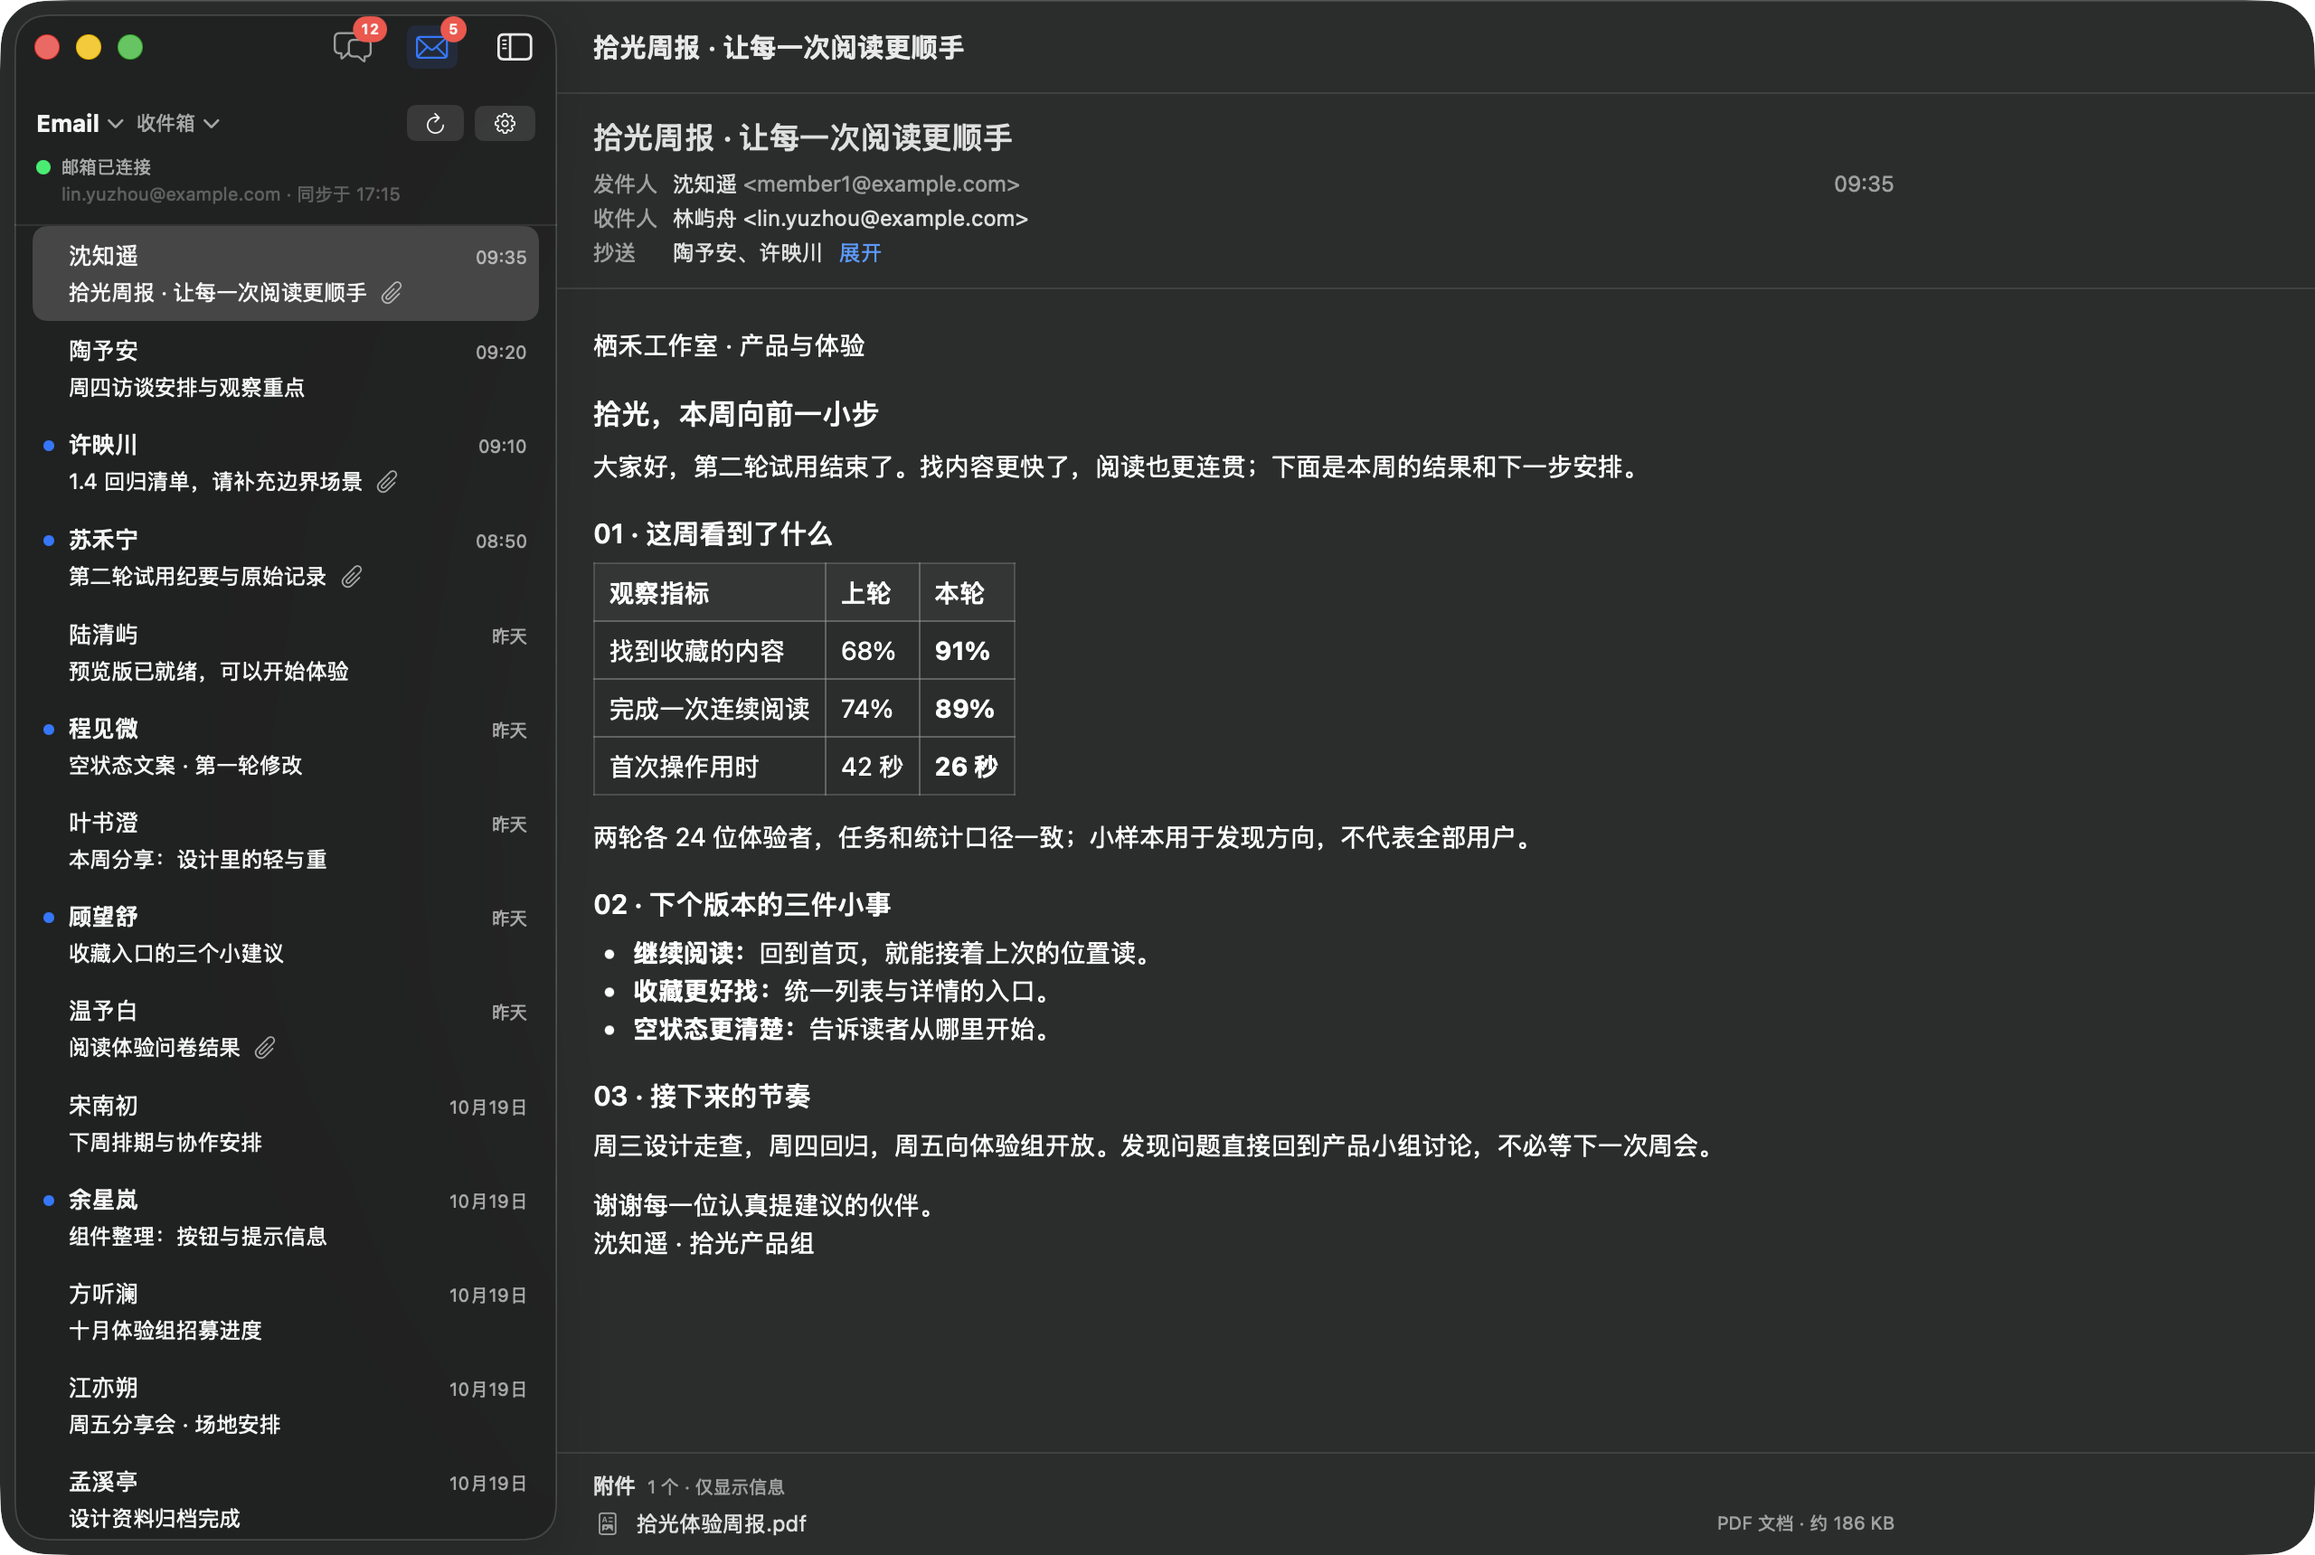
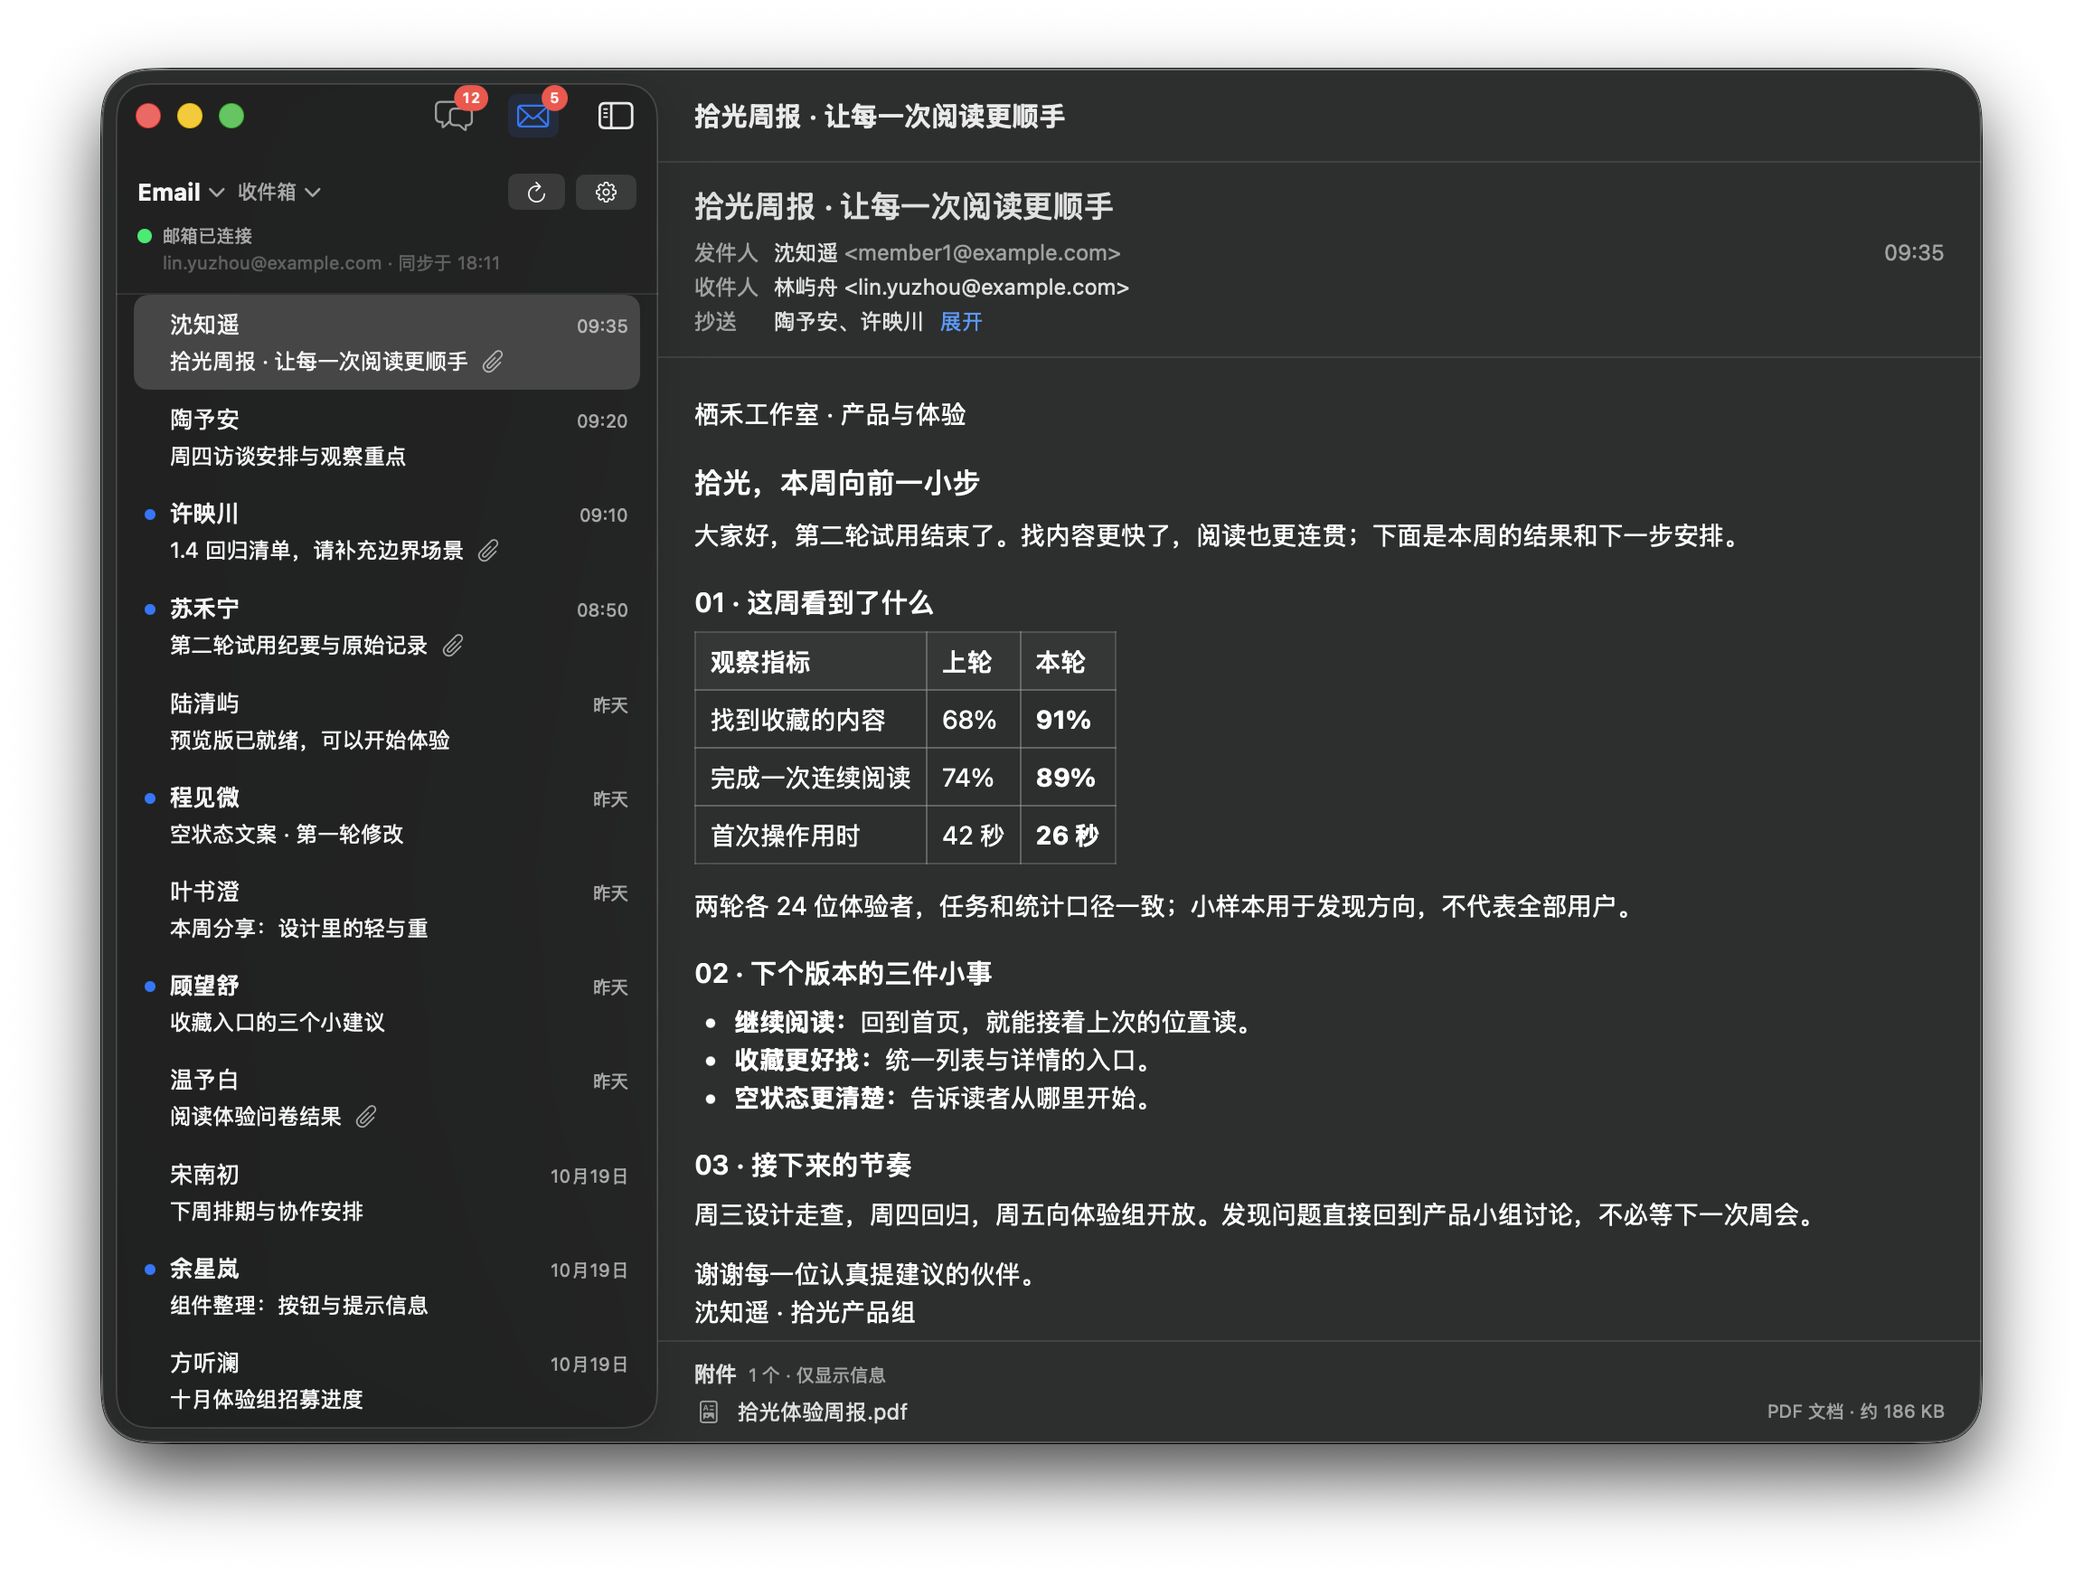
docs: refine shadowed showcase screenshots and side-by-side README

diff --git a/kb/sessions/2026-10-21-mock-data-t3.md b/kb/sessions/2026-10-21-mock-data-t3.md
@@ -1,0 +1,78 @@
+---
+created: 2026-10-21
+tags: [session, mock-data, screenshots, readme]
+---
+
+# T3：窄窗口阴影截图、README 并排与 GitHub 本地预览
+
+## 概要
+
+T3 制作与自动验证完成，待协调者审图及用户在本地预览确认。四张截图统一为 1040×760 pt 激活窗口，保留 macOS 原生阴影和透明外缘；README 改为 Messages / Email 两列表格。后端 329 passed，GitHub Markdown API 本地预览的深浅主题、图片选择、等宽和无横向滚动均通过。没有 push。
+
+起始 HEAD 为 511afcd，比派发信息中的 61591be 多一条 T3 派发记录；始终在 master，无其他未提交改动。实机前 context 检查为 15%，后续检查为 36%、39%；未开辅助 tab 或委派。
+
+## 修改的文件
+
+- `README.md`：仅截图区改为 HTML 两列表格，表头 Messages / Email，每个单元格保留 picture、深色 source、浅色 img 和原 alt，显式 `width="380"`；虚构数据说明及其他段落不变。
+- `mac/Artwork/screenshots/`：覆盖四张同名 PNG。
+- `mock-data/showcase/messages.json`：主角会话删除 s1–s4 四条前置对话，由 12 条精简为 8 条；保留系统公告、多行富文本、图片、本人多行回复、普通文本和会议卡片。其他会话、邮件、图片素材不变。
+- `kb/docs/mock-data.md`：自动截图默认使用带阴影命令，说明 `-o` 是去阴影紧裁切的可选参数。
+- 本总结。共享 AGENTS、协调记录、计划和活清单未改。
+
+## 窗口构图与截图
+
+复用已签收的 `t2/DerivedData` Debug 构建，无 App 代码改动或重建。模拟启动环境为 `FEISHU_LITE_MOCK_DATA=<仓库>/mock-data/showcase`，`FEISHU_LITE_APPEARANCE=light|dark`。按 PID 激活并点击目标窗口标题栏，窗口位置 (100,70)，尺寸 **1040×760 pt**；不改系统外观。
+
+先试 1040×780、742、800 等高度，候选证据保留在 t3 下。原 12 条消息在窄窗口会在顶部露出被切的气泡或在半透明标题栏后露出气泡，因此精简四条前置对话。最终打开主角会话后使用默认底部位置即可，顶部是完整系统公告和时间，第一条气泡完整；底部最后一句和会议卡片完整，图片完整，没有半个气泡。邮件选择主角 HTML 周报，正文保持顶部，列表完整显示前 12 行，底部在行间，正文结尾与附件也可见。
+
+每次截图前 wake-screen，CGWindowList 按自己的 PID 找 layer 0 窗口，用 `screencapture -x -l <窗口id>`，不加 `-o`。四张都是原始截图，没有后期修图、缩放或合成。目视逐张确认激活红黄绿按钮、无桌面/其他 App、所有人物和团队虚构、邮箱为 example.com；深色确为 Dark Aqua。
+
+| 文件 | 像素尺寸 | 字节 |
+|---|---|---|
+| messages-light.png | 2304×1744 | 957422 |
+| messages-dark.png | 2304×1744 | 986384 |
+| email-light.png | 2304×1744 | 917567 |
+| email-dark.png | 2304×1744 | 978033 |
+
+四张均小于 1 MB。PNG 都是 RGBA，alpha 范围 0–255、角落 (0,0,0,0)；带阴影像素比 2080×1520 的窗口多出 224 px。浅深页面截图均确认阴影可见，深色页阴影较浅色页细微，保留系统原样。尺寸及透明验证见 `metadata.json`。
+
+## README 预览与验证
+
+选择开源 [yusukebe/gh-markdown-preview](https://github.com/yusukebe/gh-markdown-preview)，安装 gh 扩展，实际可执行版本 **v1.12.0**。它使用 GitHub Markdown API 和 github-markdown-css（5.6.1），可用现有 gh 登录态，未导出或保存 token。对比读取候选 README 后发现 gh-gfm-preview 现在使用 goldmark 本地渲染而非 API，所以未选。工具 README 原始记录存于证据目录。
+
+GitHub API 返回的表格保留 width 和 picture（外层增加 themed-picture）。每图设 380 px，避免天然 2304 px 图片撑宽 max-content 表格；浏览器实际表格 815 px、内容区域 830 px，两图精确等宽 380 px、高 287.625 px。1280 px 视口下 document.scrollWidth=1280，table.scrollWidth=clientWidth=815，无横向滚动。两种主题 currentSrc 分别选 *-light.png / *-dark.png，complete=true、naturalWidth=2304。证据 `preview-light.json`、`preview-dark.json`，最终页面截图 `readme-light.png`、`readme-dark.png`（1280×1000）。
+
+服务保持运行：
+
+- URL：**http://127.0.0.1:6419/**
+- 监听：127.0.0.1:6419；PID **11464**，PPID 1。
+- 日志：`tmp/2026-10-21-mock-data/t3/preview.log`；PID 文件 `preview.pid`。
+- 启动脚本：`start-preview.py`，直接运行扩展下载的二进制，`start_new_session=True`，stdin 为 DEVNULL、输出落日志，不依赖当前 tab。
+- **深浅切换**：默认跟随浏览器 `prefers-color-scheme`，页面和 picture 同步。Chrome 开发者工具打开命令菜单（⌘⇧P），输入 `Show Rendering`，在 Rendering 的 **Emulate CSS media feature prefers-color-scheme** 里选 light 或 dark；无需更改 macOS 系统外观。恢复 No emulation 后跟随系统。
+- 不使用 `--light-mode/--dark-mode` 来冒充 picture 切换：这两个启动参数只固定工具页面 CSS，picture 的媒体查询仍由浏览器决定。
+- 用户确认后由协调者执行 `kill 11464` 关闭；本轮故意保留服务。
+
+从 backend/ 执行 `uv run pytest`：**329 passed in 53.08s**，见 `backend-tests.log`，包含 showcase 加载验证。未改功能代码，不额外重跑 App 测试或构建。`git diff --check` 通过。
+
+## 首败、工具错误与清理
+
+`tool-errors.txt` 保留原始错误及处理：首次 nohup 启动没有存活导致浏览器 ERR_CONNECTION_REFUSED，改为独立 session 子进程；一次把 App 相对路径命令放在 backend/ 运行导致路径不存在，回仓库根重试；浏览器缓存曾保留旧浅色图，重建独立会话并验证 naturalWidth 后重截；浏览器重建时视口高度回到默认，最后显式设为 1280×1000 重截。失败没有记成通过。
+
+自己的 App PID 85386、8089、15367 以及后端 85473、8141、15421 均已退出；三处 mock 数据目录已自动删除。临时日志归档为 `backend-<App PID>.log` 并删除原日志，见 `cleanup.json` 和 `backend-processes-after.txt`。用户日常 Debug PID 21719 仍运行，没有读其缓存或凭证，没有修改日常构建。未创建 mock 偏好域、未启动模拟器/caffeinate、未发消息或通知。
+
+agent-browser 独立会话 `mockdata-t3` 已关闭，`mac-dev-cleanup --only browser --min-age 2` 返回 nothing to clean。预览进程是唯一有意保留的验证资源。
+
+## 未验证项与交给协调者
+
+- 制作、自动测试和本地预览检查已完成；用户亲自确认与协调者签收尚未发生，不能代替用户宣称已验收。
+- GitHub 线上仓库首页效果要 push 后检查，本轮按约束未 push，沿用既有 next-up。
+- 没有发现需新增 known-issues 的 App 问题；原有长列表正常省略预览文字不属于本次引入的截断。
+- 请协调者更新派发状态，转交预览 URL 和深浅切换方法，确认后关闭 PID 11464。无需追加 AGENTS 内容。
+- 所有证据与候选归档：`tmp/2026-10-21-mock-data/t3/`。
+
+## 相关文档
+
+- [协调记录](../plans/2026-10-21-mock-data-coordination.md) — T3 范围和交付约束。
+- [模拟数据计划](../plans/2026-10-21-mock-data-plan.md) — 功能与展示目标。
+- [T2 总结](2026-10-21-mock-data-t2.md) — 复用构建、数据和截图工具。
+- [模拟数据文档](../docs/mock-data.md) — 本轮更新带阴影截图方式。

diff --git a/kb/docs/mock-data.md b/kb/docs/mock-data.md
@@ -76,7 +76,7 @@ open -n --env FEISHU_LITE_MOCK_DATA="$PWD/mock-data/showcase" \
 
 此开关启动时设置 `NSApp.appearance`，只影响本实例，不改系统外观或偏好；不限于模拟模式。只接受小写 `light` / `dark`，未设置、空值或其他值跟随系统。Release 忽略这个变量。不要依赖 `-AppleInterfaceStyle` 启动参数，本机实测不能据此切换本 App 的外观。
 
-先记录本次 App PID，核对可执行文件在自己的构建目录。先运行 `wake-screen`，再用 CGWindowList 按该 PID 找 layer 0 的窗口 id，运行 `screencapture -x -o -l <窗口id> <文件.png>`。只截自己窗口，不截整个桌面。长轮次使用 `caffeinate -d`，结束后清理自己的进程。AX 选择行可用；输入消息应使用真实键入，不能仅用 AX 设置文本值。
+先记录本次 App PID，核对可执行文件在自己的构建目录。先运行 `wake-screen`，再用 CGWindowList 按该 PID 找 layer 0 的窗口 id，运行 `screencapture -x -l <窗口id> <文件.png>`（保留系统窗口阴影，阴影外透明，与 ⌘⇧4 后按空格选窗口一致）。需要无阴影的紧裁切截图时才加可选的 `-o`。只截自己窗口，不截整个桌面。长轮次使用 `caffeinate -d`，结束后清理自己的进程。AX 选择行可用；输入消息应使用真实键入，不能仅用 AX 设置文本值。
 
 需要激活外观的截图时，在获准短暂切到前台后，用 `NSRunningApplication(processIdentifier:)` 或按 unix id 的 AX 操作激活指定模拟进程，不按 App 名字激活。截图前检查红绿灯有颜色，防止同 bundle id 的日常实例与模拟实例混淆。
 

diff --git a/README.md b/README.md
@@ -8,15 +8,19 @@
 
 飞书官方客户端里装着文档、日历、会议和工作台。如果你在电脑上用飞书主要是为了收发消息，可以试试 FeishuLite。用手机飞书扫码登录后，就能在电脑上查看会话、回复消息，有新消息时收到系统通知。
 
-<picture>
-  <source media="(prefers-color-scheme: dark)" srcset="mac/Artwork/screenshots/messages-dark.png">
-  <img src="mac/Artwork/screenshots/messages-light.png" alt="Messages：团队群聊、图片消息与视频会议邀请">
-</picture>
-
-<picture>
-  <source media="(prefers-color-scheme: dark)" srcset="mac/Artwork/screenshots/email-dark.png">
-  <img src="mac/Artwork/screenshots/email-light.png" alt="Email：收件箱与包含表格、列表和附件信息的 HTML 周报">
-</picture>
+<table>
+  <thead><tr><th>Messages</th><th>Email</th></tr></thead>
+  <tbody><tr>
+    <td><picture>
+      <source media="(prefers-color-scheme: dark)" srcset="mac/Artwork/screenshots/messages-dark.png">
+      <img src="mac/Artwork/screenshots/messages-light.png" alt="Messages：团队群聊、图片消息与视频会议邀请" width="380">
+    </picture></td>
+    <td><picture>
+      <source media="(prefers-color-scheme: dark)" srcset="mac/Artwork/screenshots/email-dark.png">
+      <img src="mac/Artwork/screenshots/email-light.png" alt="Email：收件箱与包含表格、列表和附件信息的 HTML 周报" width="380">
+    </picture></td>
+  </tr></tbody>
+</table>
 
 截图中的人物、团队及内容均为虚构展示数据。
 
